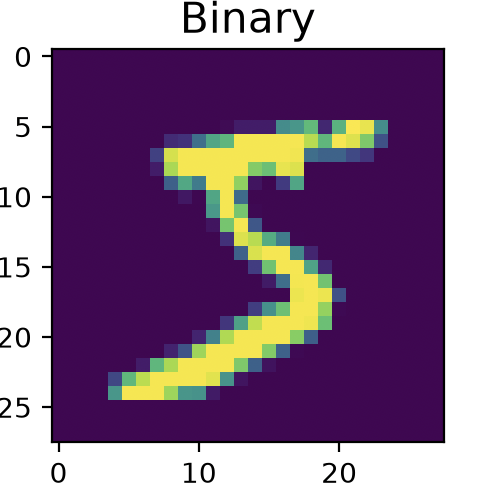
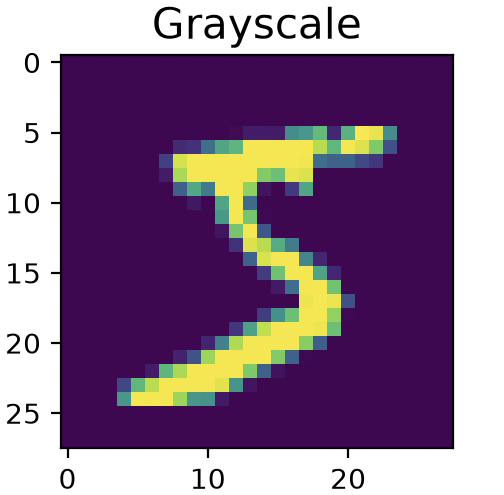
small mistake in the grayscale image, wrong label

diff --git a/src/load.py b/src/load.py
@@ -97,7 +97,7 @@ if __name__ == '__main__':
     #show_img(images_show,titles_show)
     #print(x_test[6020])
     #print(x_test[6020])
-    show_img([x_train[0]],["Binary"])
-
+    show_img([x_train[0]],["Grayscale"])
+ 
 """
 """
